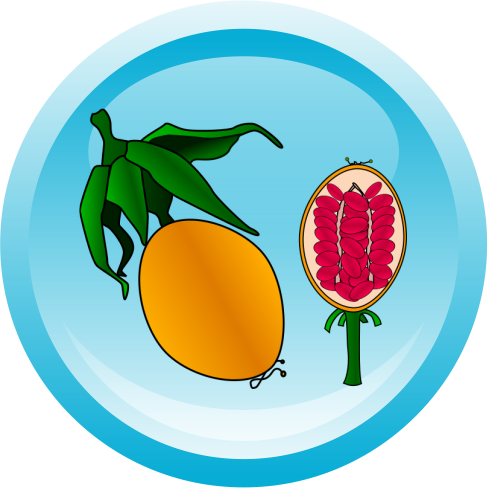
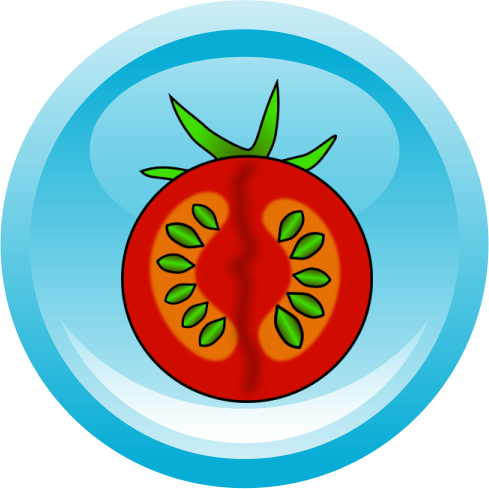
remove unused files, replace image for carnoso

diff --git a/navigation/DrawerNavigator.tsx b/navigation/DrawerNavigator.tsx
@@ -1,10 +1,9 @@
 import * as React from "react";
 import { createDrawerNavigator } from "@react-navigation/drawer";
 import { useDimensions } from "@react-native-community/hooks";
-import { DrawerParamList, TabTwoParamList, MainParamList } from "../types";
+import { DrawerParamList, MainParamList } from "../types";
 import ThemedStyles from "../styles/ThemedStyles";
 import { createStackNavigator } from "@react-navigation/stack";
-import TabTwoScreen from "../screens/TabTwoScreen";
 import HomeScreen from "../screens/HomeScreen";
 import EspeciesListScreen from "../screens/EspeciesListScreen";
 import EspeciesDetailScreen from "../screens/EspeciesDetailScreen";

diff --git a/types.tsx b/types.tsx
@@ -5,11 +5,6 @@ export type RootStackParamList = {
   NotFound: undefined;
 };
 
-export type BottomTabParamList = {
-  TabOne: undefined;
-  TabTwo: undefined;
-};
-
 export type MainParamList = {
   HomeScreen: undefined;
   EspeciesListScreen: undefined;
@@ -20,14 +15,6 @@ export type MainParamList = {
     isHierba?: boolean;
   };
   UseModeScreen: undefined;
-};
-
-export type TabOneParamList = {
-  TabOneScreen: undefined;
-};
-
-export type TabTwoParamList = {
-  TabTwoScreen: undefined;
 };
 
 export type DrawerParamList = {

diff --git a/navigation/LinkingConfiguration.ts b/navigation/LinkingConfiguration.ts
@@ -13,11 +13,6 @@ export default {
               EspeciesDetailScreen: 'EspeciesDetail',
             },
           },
-          TabTwo: {
-            screens: {
-              TabTwoScreen: 'two',
-            },
-          },
         },
       },
       NotFound: '*',
